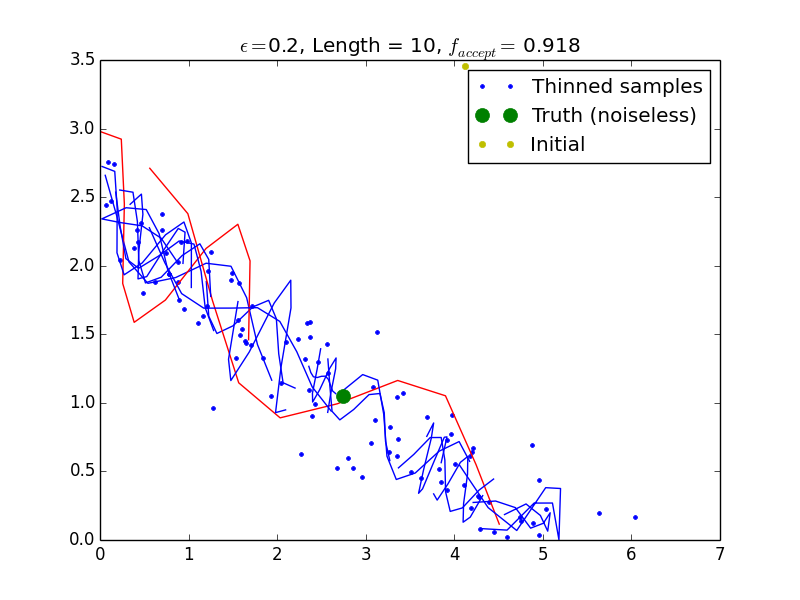
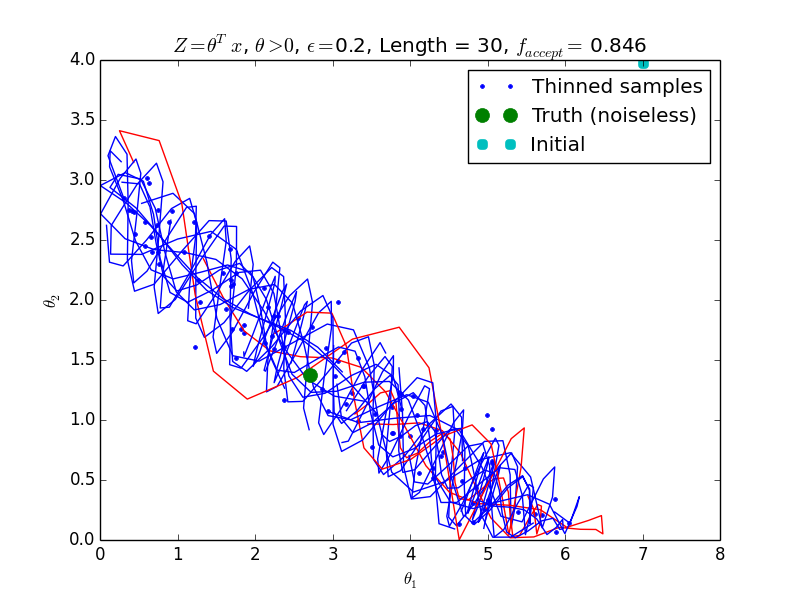
update test and demo

diff --git a/hmc.py b/hmc.py
@@ -247,9 +247,13 @@ def test_mix_hmc(epsilon = 0.2, length = 10, iterations = 100, snr = 10):
     for it in np.arange(20) + int(iterations/3):
         pl.plot(sampler.trajectories[it,:,0],sampler.trajectories[it,:,1], color = color[int(sampler.accepted[it])])
     pl.plot(mock_theta[0], mock_theta[1], 'g.', markersize = 20, label = 'Truth (noiseless)')
-    pl.plot(theta0[0], theta0[1], 'y.', markersize = 10, label = 'Initial')
+    pl.plot(theta0[0], theta0[1], 'c.', markersize = 15, label = 'Initial')
     pl.legend(loc = 'upper right')
-    pl.title(r'$\epsilon = ${0}, Length = {1}, $f_{{accept}} =$ {2}'.format(epsilon, length, sampler.accepted.sum()/iterations))
+    pl.title(r'$Z = \theta^T x$, $\theta >0$, $\epsilon = ${0}, Length = {1}, $f_{{accept}} =$ {2}'.format(epsilon, length, sampler.accepted.sum()/iterations))
+    pl.xlabel(r'$\theta_1$')
+    pl.ylabel(r'$\theta_2$')
+    
+
     pl.show()
     return sampler
 
